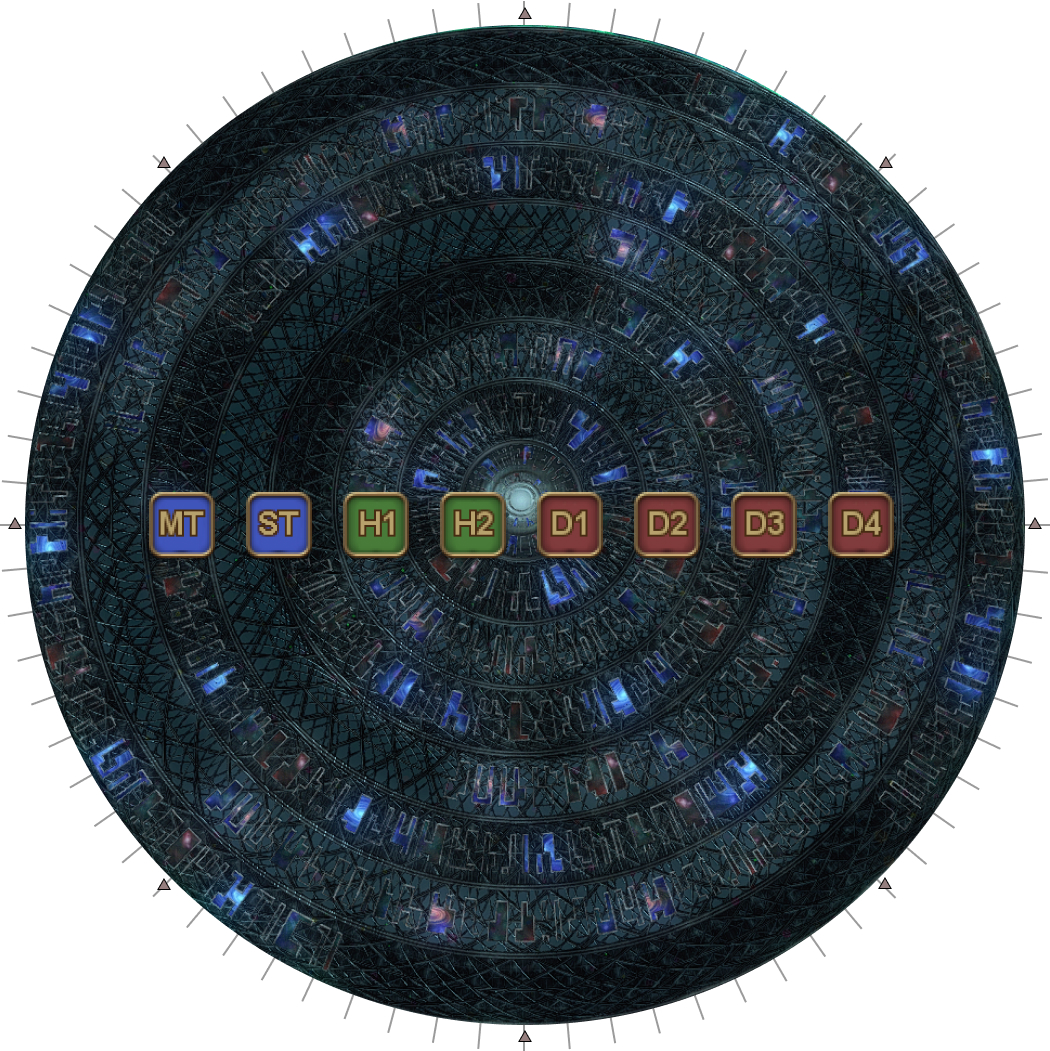
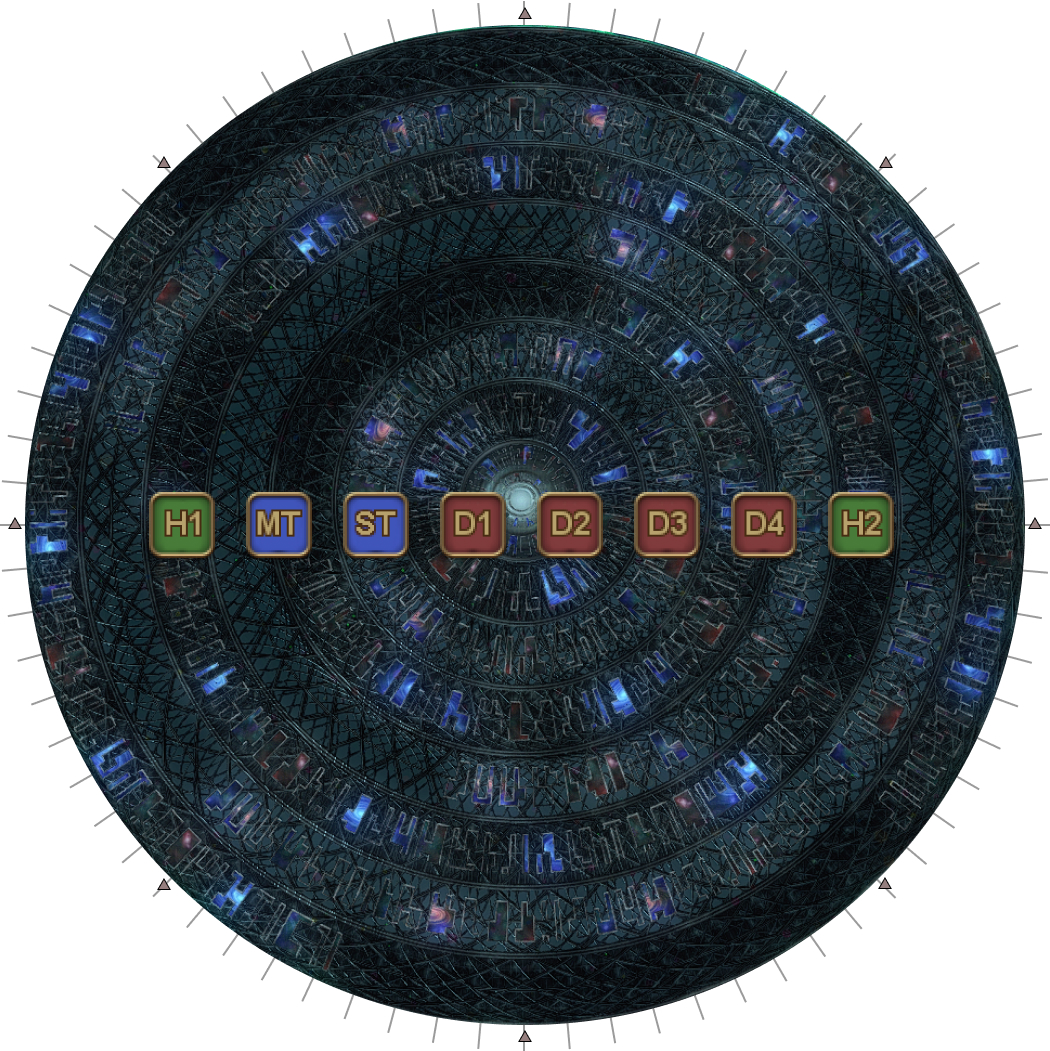
Update TOP cheatsheet

diff --git a/ultimates/top/en/03_omega_reconfigured.md b/ultimates/top/en/03_omega_reconfigured.md
@@ -14,7 +14,7 @@ This is the only phase in the fight with a transitional mechanic.
 
 <table>
   <tr>
-    <td><p><b>1.</b> Line up west-to-east:</p><ul><li><b>West:</b> MT ST H1 H2 D1 D2 D3 D4 <b>:East</b></li></ul></td>
+    <td><p><b>1.</b> Line up west-to-east:</p><ul><li><b>West:</b> H1 MT ST D1 D2 D3 D4 H2<b>:East</b></li></ul></td>
     <td><img src="../images/03_omega_reconfigured/transition_01.jpg"></td>
   </tr>
   <tr>
